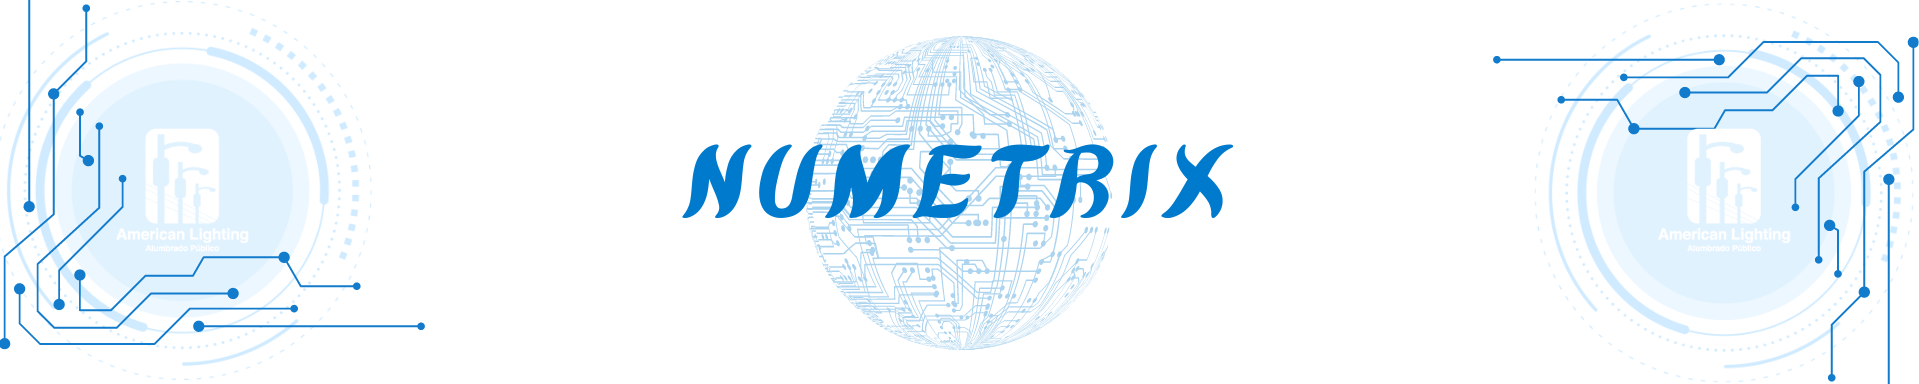
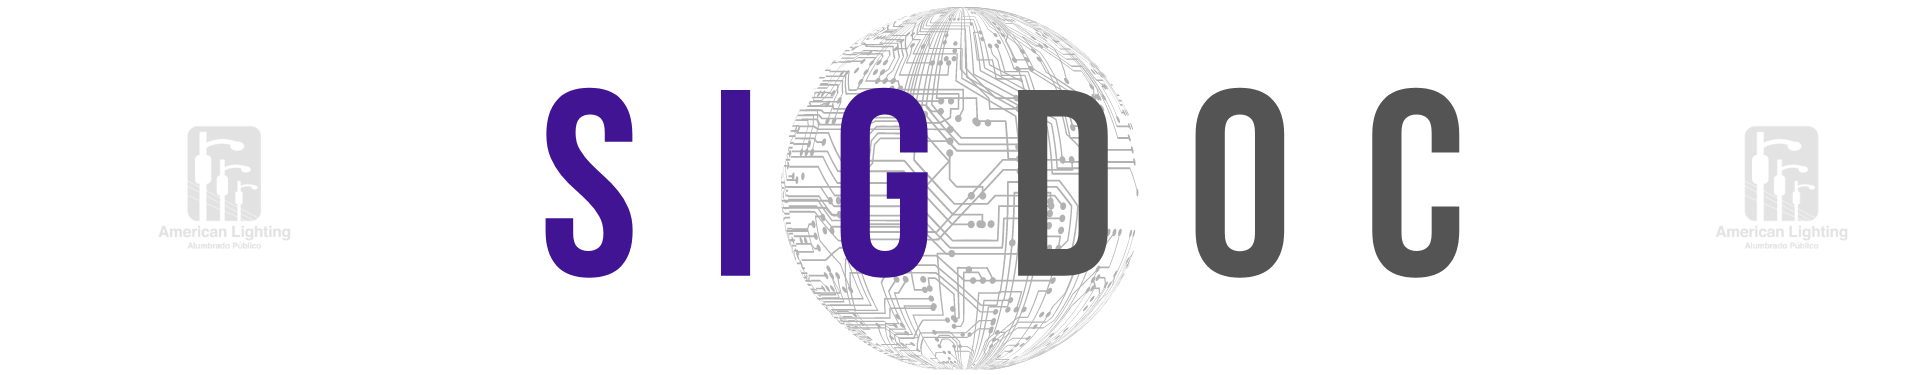
APP_IMAGEN

diff --git a/app.py b/app.py
@@ -1,14 +1,13 @@
 import streamlit as st
 import os
 
-# Configurar el tamaño de la página y el diseño
+# Configurar el tamaño de la página y el diseño con imagen personalizada
 st.set_page_config(
-    page_title="Accounting Optimization",
-    page_icon=":bar_chart:",
+    page_title="S I G D O C",
+    page_icon=os.path.join("imagen", "logo_app.png"),  # Aquí colocas la ruta de tu imagen personalizada
     layout="wide",
     initial_sidebar_state="expanded"
 )
-
 # Configurar la carpeta de subida principal
 UPLOAD_FOLDER = os.path.abspath("archivos_usuarios")
 os.makedirs(UPLOAD_FOLDER, exist_ok=True)
@@ -68,20 +67,20 @@ if "logged_in" not in st.session_state:
 
 # Mostrar el formulario de inicio de sesión si no está logueado
 if not st.session_state["logged_in"]:
-    st.sidebar.header("Login")
-    username = st.sidebar.text_input("Username")
-    password = st.sidebar.text_input("Password", type="password")
+    st.sidebar.header("Iniciar Sesion")
+    username = st.sidebar.text_input("Usuario")
+    password = st.sidebar.text_input("Contraseña", type="password")
     
-    if st.sidebar.button("Login"):
+    if st.sidebar.button("Ingersar"):
         # Verificar si el usuario existe y la contraseña es correcta
         if username in credentials:
             if credentials[username] == password:
                 st.session_state["logged_in"] = True
-                st.success("Logged in successfully!")
+                st.success("Iniciaste Sesion con exito!")
             else:
-                st.sidebar.error("Invalid password")
+                st.sidebar.error("Contraseña incorrecta")
         else:
-            st.sidebar.error("Invalid username")
+            st.sidebar.error("Usuario incorrecto")
 
 # Si está logueado, mostrar las opciones
 if st.session_state["logged_in"]:
@@ -134,7 +133,6 @@ if st.session_state["logged_in"]:
     module.run(subfolder)
 else:
     # Si no está logueado, mostrar solo la pestaña de Inicio
-    st.sidebar.header("Bienvenido")
     st.write("Por favor, inicie sesión para acceder al resto de las funcionalidades.")
 
 

diff --git a/tabs/inicio.py b/tabs/inicio.py
@@ -1,7 +1,7 @@
 import streamlit as st
 
 def run(subfolder):
-    st.markdown("## Bienvenido a Numetrix")
+    st.markdown("## Bienvenido")
     st.markdown("Selecciona una de las opciones disponibles para ejecutar:")
     st.markdown("1. **Procesar Archivos**: Verifica y procesa facturas para integrarlas en tu sistema contable.")
     st.markdown("2. **Comparar Archivos**: Compara diferentes reportes para verificar inconsistencias.")
